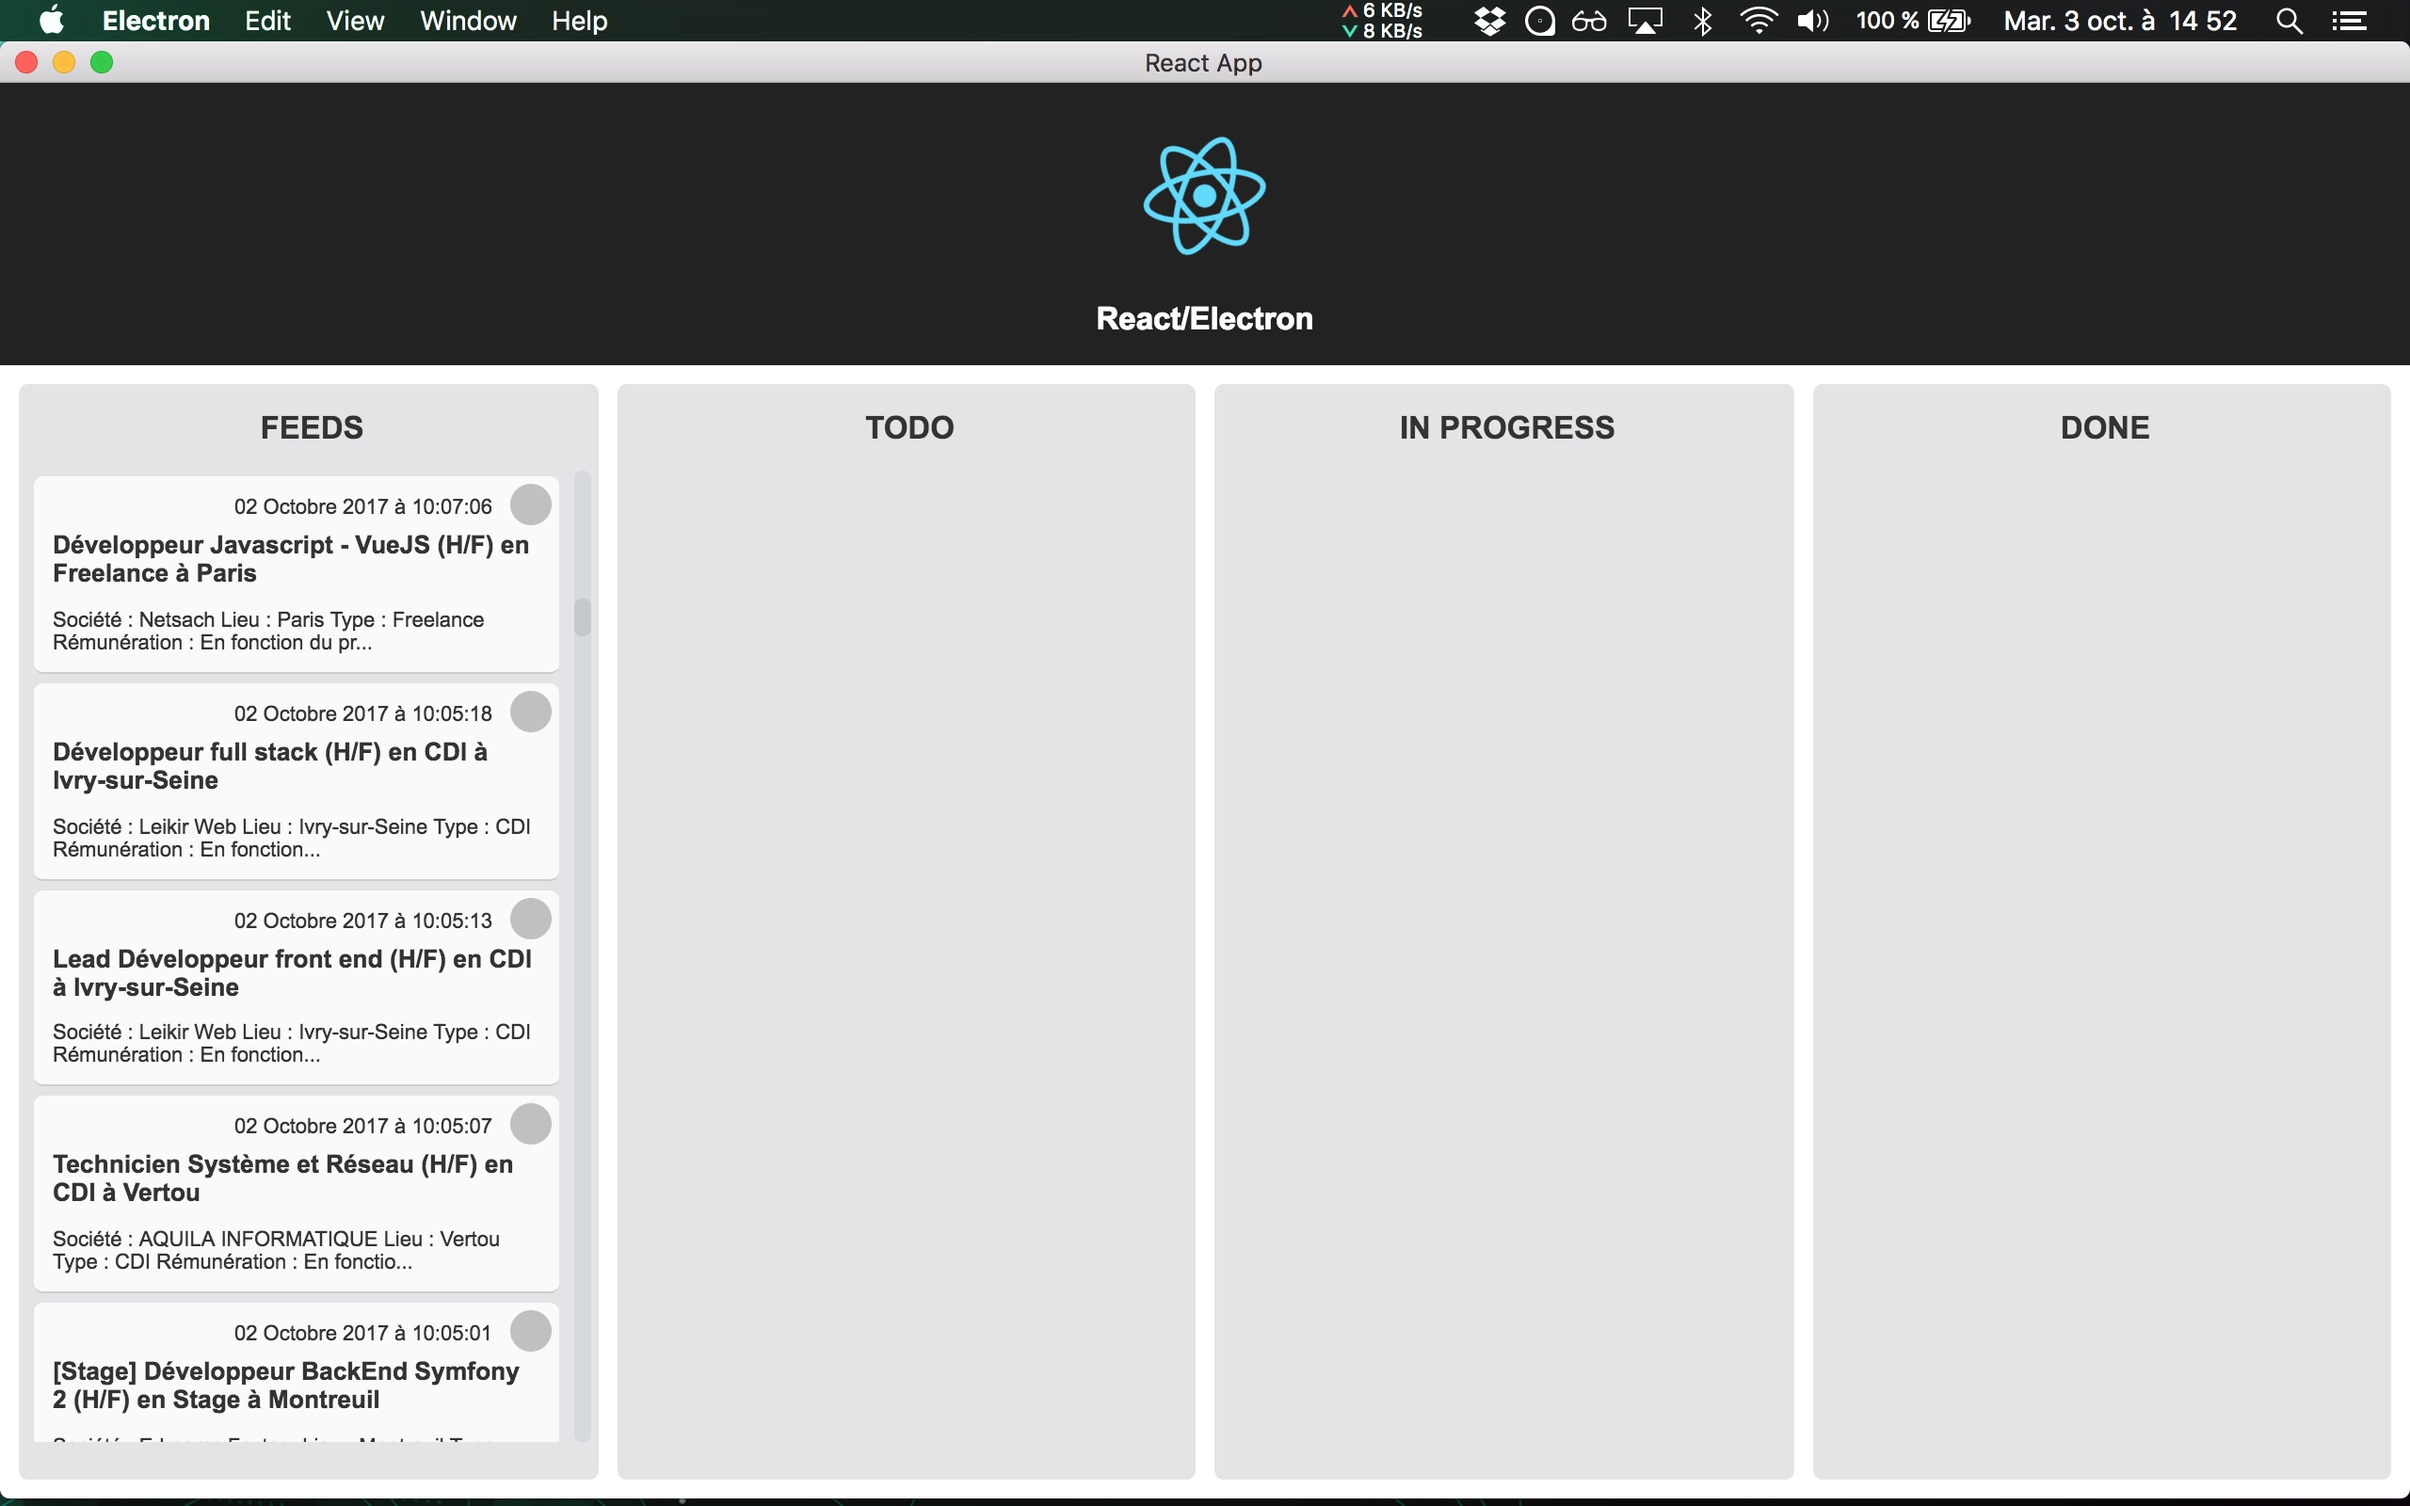
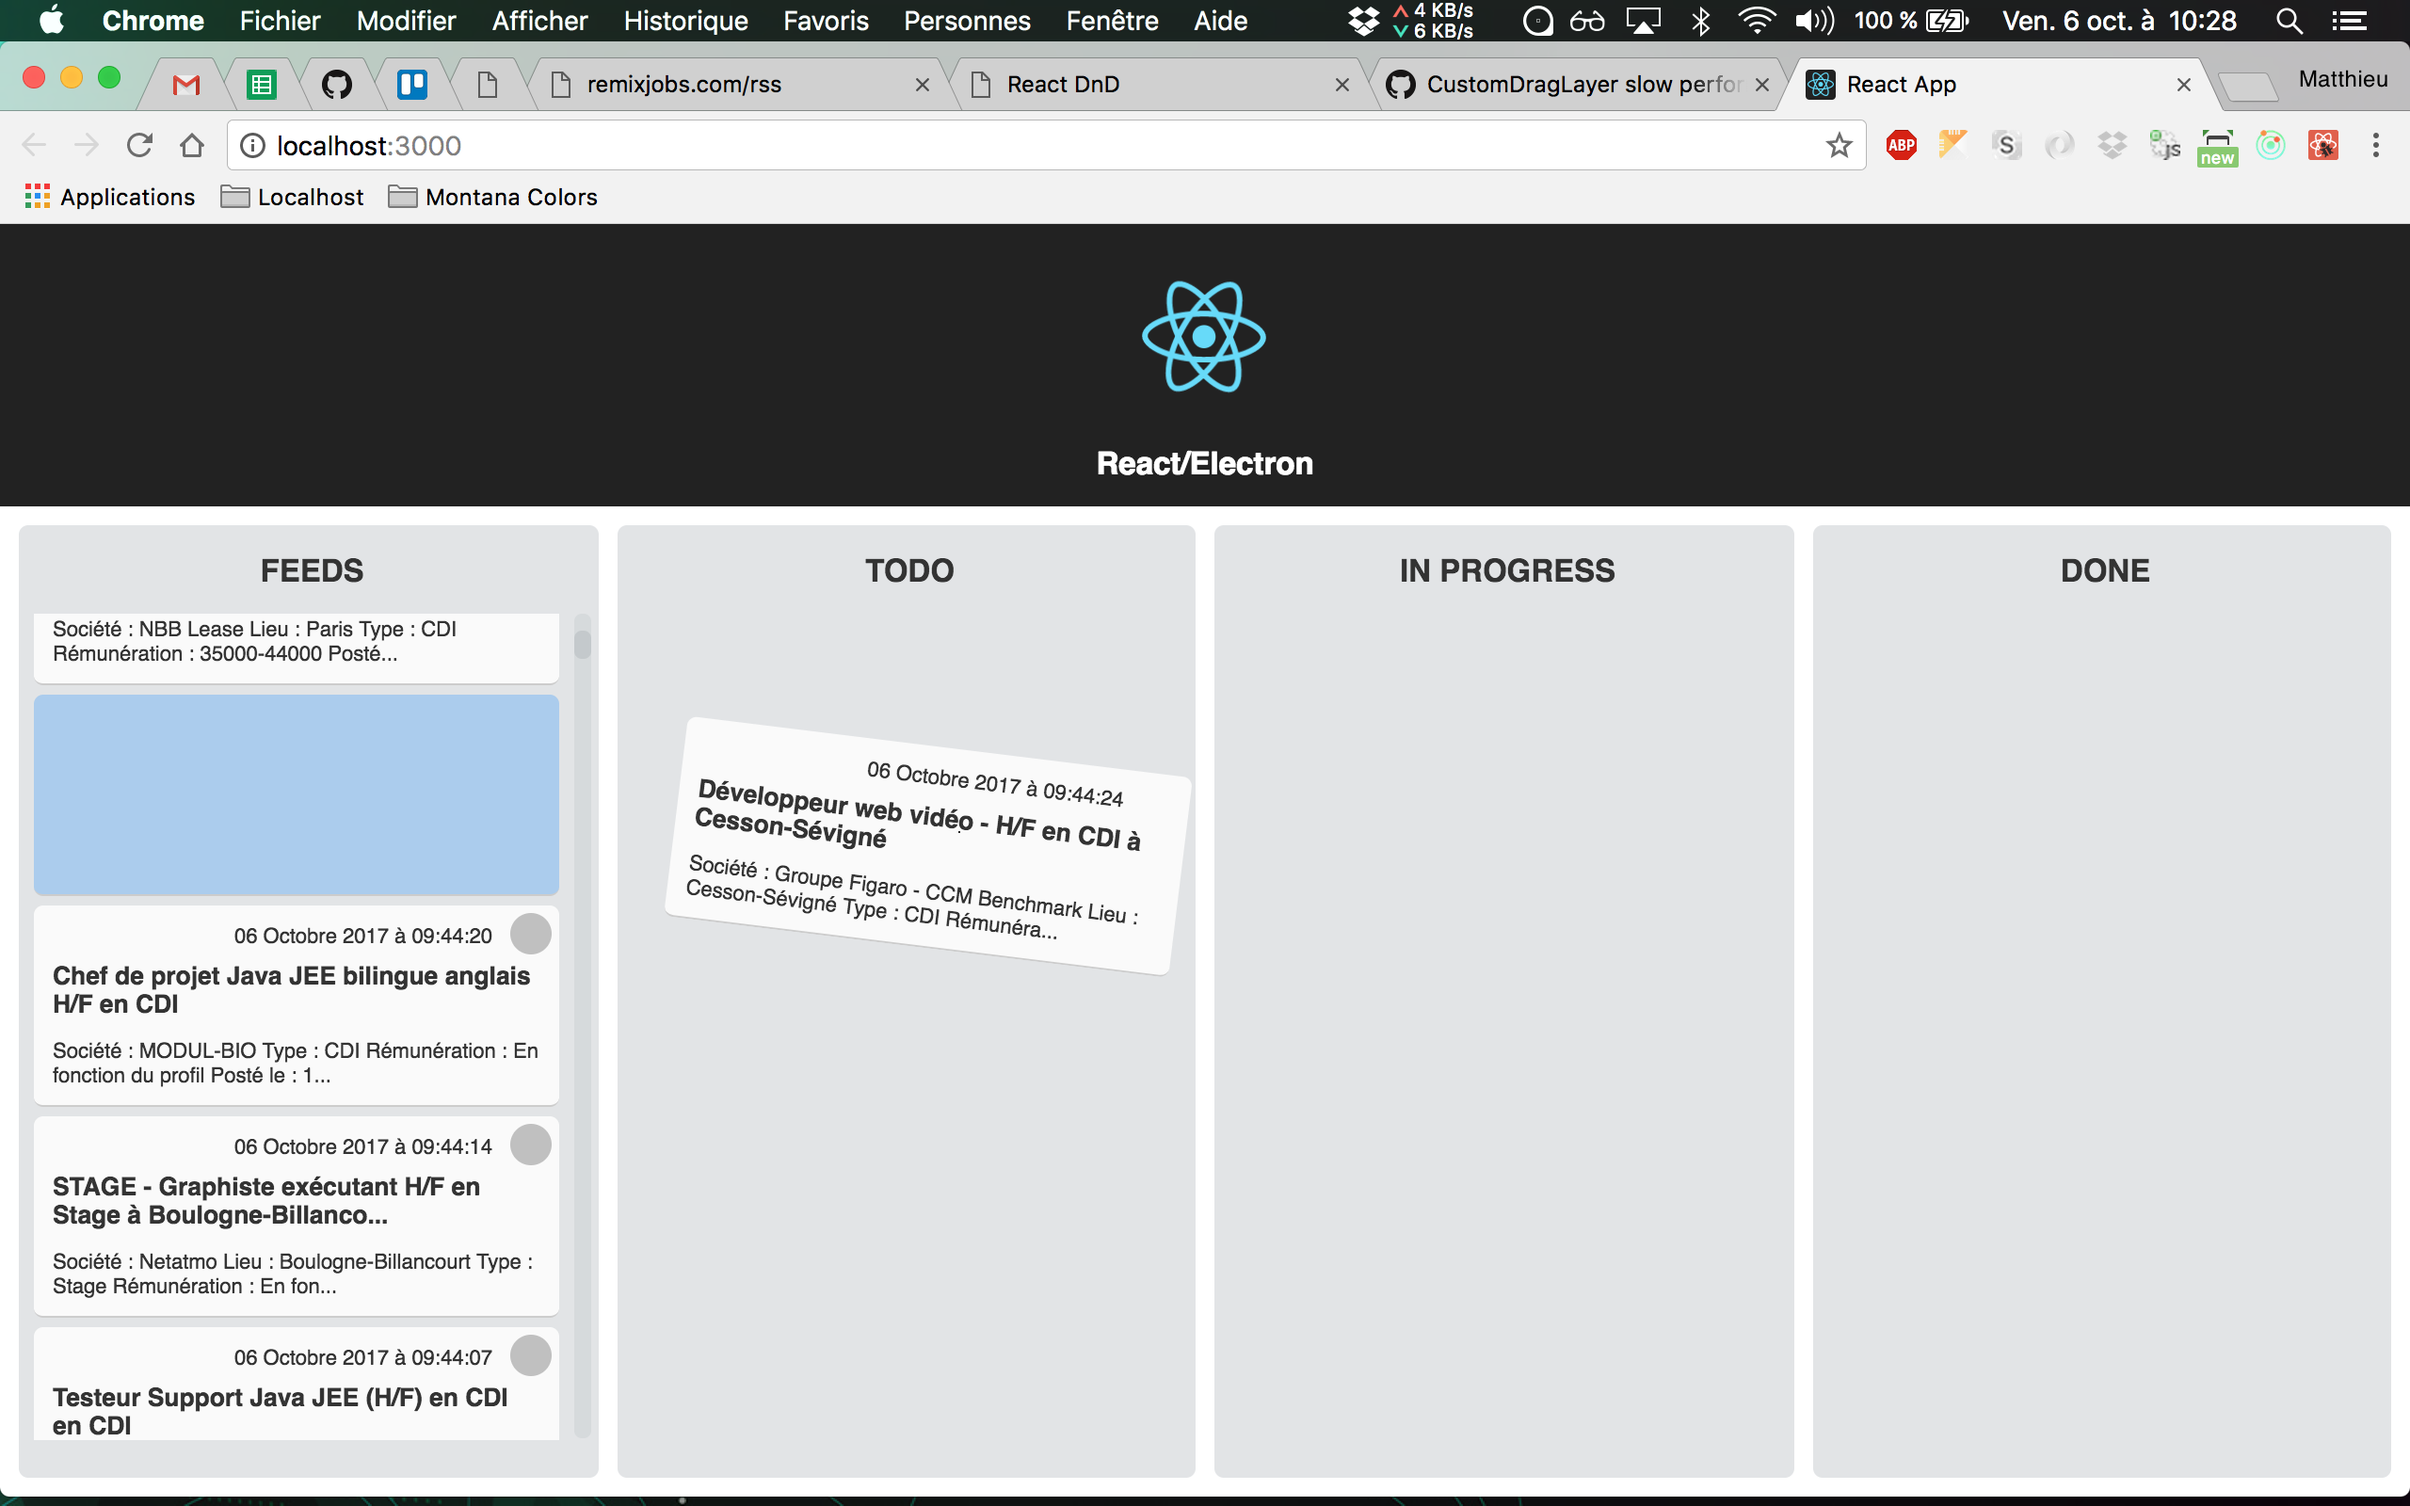
update screenshot and add loading progress bar

Changed region(s): [[0.0, 0.1875, 1.0, 0.9688], [0.0, 0.0, 1.0, 0.1562], [0.2812, 0.5, 0.4688, 0.625]]

diff --git a/src/app/KanbanBoard.js b/src/app/KanbanBoard.js
@@ -8,6 +8,7 @@ import HTML5Backend from 'react-dnd-html5-backend';
 import './kanbanboard.css';
 import logo from './../assets/logo.svg';
 import { loadJobsFeeds } from './actions';
+import ProgressBar from './components/ui/ProgressBar';
 import DraggableCard from './components/DraggableCard';
 import BoardColumn from './components/kanbanboard/Column';
 
@@ -34,7 +35,6 @@ class KanbanBoardView extends Component {
 
   _updateApplicationFeeds () {
     const {
-      isloaded,
       loadfeeds,
       nextupdate } = this.props;
     const now = Date.now();
@@ -43,14 +43,15 @@ class KanbanBoardView extends Component {
       // FIXME -> move to a debugger
       console.log(`> Next datas update: ${new Date(nextupdate).toLocaleString()}`);
     }
-    if (!isoutdated || isloaded) return;
+    if (!isoutdated) return;
     loadfeeds();
   }
 
   render () {
-    const { feedsitems } = this.props;
+    const { feedsitems, isloading } = this.props;
     return (
       <div className="screen flex-rows">
+        <ProgressBar loading={isloading} />
         <div className="screen-header">
           <img src={logo} className="screen-logo" alt="logo" />
           <h2>React/Electron</h2>
@@ -73,7 +74,7 @@ class KanbanBoardView extends Component {
 
 KanbanBoardView.propTypes = {
   isready: PropTypes.bool.isRequired,
-  isloaded: PropTypes.bool.isRequired,
+  isloading: PropTypes.bool.isRequired,
   loadfeeds: PropTypes.func.isRequired,
   feedsitems: PropTypes.array.isRequired,
   nextupdate: PropTypes.oneOfType([
@@ -84,7 +85,7 @@ KanbanBoardView.propTypes = {
 
 const mapStateToProps = state => ({
   isready: state.isready,
-  isloaded: state.isloaded,
+  isloading: state.isloading,
   feedsitems: state.feedsitems,
   nextupdate: state.nextupdate
 });

diff --git a/src/app/reducers/appstates.js b/src/app/reducers/appstates.js
@@ -26,10 +26,12 @@ export const isready = (state = false, action) => {
   }
 };
 
-export const isloaded = (state = false, action) => {
+export const isloading = (state = false, action) => {
   switch (action.type) {
-  case 'onfeedsloaded':
+  case 'onloadingstart':
     return true;
+  case 'onloadingcomplete':
+    return false;
   default:
     return state;
   }
@@ -54,7 +56,11 @@ export const feedsitems = (state = [], action) => {
   // find(state, { id: action.from });
   // return state;
   case 'onfeedsloaded':
-    return orderby(action.feedsitems, ['date'], 'desc');
+    // FIXME ->
+    // si il y a des nouveaux feeds les ajouter aux feeds existants
+    return !action.feedsitems || !action.feedsitems.length
+      ? state
+      : orderby(action.feedsitems, ['date'], 'desc');
   case REHYDRATE:
     return action.payload.feedsitems || [];
   default:

diff --git a/src/app/components/ui/progressbar.css b/src/app/components/ui/progressbar.css
@@ -1,0 +1,54 @@
+#preloader {
+  position: relative;
+}
+
+#preloader,
+.loader,
+.loader::before {
+  height: 4px;
+  background-color: #DDDDDD;
+}
+
+.loader {
+  width: 100%;
+  overflow: hidden;
+  margin-bottom: 7px;
+  position: absolute;
+}
+
+.loader::before {
+  content: "";
+  left: -200px;
+  width: 200px;
+  display: block;
+  position: absolute;
+  background-color: #2980B9;
+  animation: loading 2s linear infinite;
+}
+
+@keyframes loading {
+  from {
+    left: -200px;
+    width: 30%;
+  }
+
+  50% {
+    width: 30%;
+  }
+
+  70% {
+    width: 70%;
+  }
+
+  80% {
+    left: 50%;
+  }
+
+  95% {
+    left: 120%;
+  }
+
+  to {
+    left: 100%;
+  }
+}

diff --git a/src/app/reducers/index.js b/src/app/reducers/index.js
@@ -4,7 +4,7 @@ import { routerReducer } from 'react-router-redux';
 import {
   feeds,
   isready,
-  isloaded,
+  isloading,
   feedsitems,
   nextupdate } from './appstates';
 
@@ -21,7 +21,7 @@ export const reducers = combineReducers({
   // services
   feeds,
   isready,
-  isloaded,
+  isloading,
   nextupdate,
   feedsitems,
   // !!! always last

diff --git a/src/app/components/ui/ProgressBar.js b/src/app/components/ui/ProgressBar.js
@@ -1,0 +1,16 @@
+import React from 'react';
+import PropTypes from 'prop-types';
+
+import './progressbar.css';
+
+const ProgressBar = ({ loading }) => (
+  <div id="preloader">
+    <div className={(!loading ? '' : 'loader')} />
+  </div>
+);
+
+ProgressBar.propTypes = {
+  loading: PropTypes.bool.isRequired
+};
+
+export default ProgressBar;

diff --git a/src/app/actions/services.js b/src/app/actions/services.js
@@ -21,7 +21,6 @@ export const loadJobsFeeds = () => (dispatch, getstate) => {
         return acc.concat(arr);
       }, []);
       feedsitems = orderby(feedsitems, ['date'], 'desc');
-      console.log('feedsitems', feedsitems);
       dispatch(loadingComplete());
       dispatch(feedsLoaded(feedsitems));
     });
